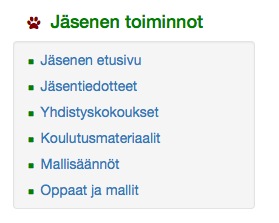
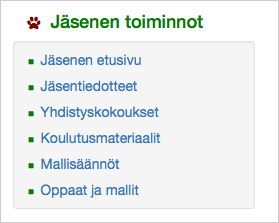
-

Changed region(s): [[0.0, 0.0, 1.0, 1.0]]

diff --git a/vkry/pages/jasensivut.md b/vkry/pages/jasensivut.md
@@ -5,7 +5,7 @@ kun muistaa määritellä sille __Category__ arvoksi oikean ryhmän.
 
 Jäsensivustolle on määritelty (tällä hetkellä) seuraavat valikkokohdat :
 
-<figure class="fig-n border" style="margin:0 0 20px 0">
+<figure class="fig-n" style="margin:0 0 20px 0">
 ![1][]
 <figcaption></figcaption>
 </figure>
@@ -21,7 +21,7 @@ Jos lisätään sisältöä muihin ryhmiin, niin niille valitaan artikkelia teht
 * Mallisäännöt
 * Oppaat ja mallit
 
-<figure class="fig-n border" style="margin:0 0 20px 0">
+<figure class="fig-n" style="margin:0 0 20px 0">
 ![2][]
 <figcaption></figcaption>
 </figure>
